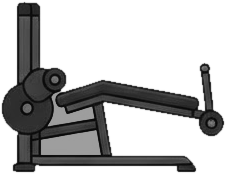
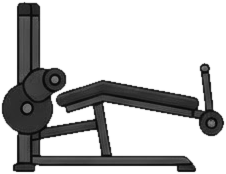
Beta: Kabel-, Band- und Maschinen-Übungen als Faultier-Puppe
36 weitere Übungen: Face Pull, Rudern/Curl/Crunch/Holzhacker/Pallof/
Kickback am Kabel, Überzug, Crossover, Band-Übungen, Latzug, Beinpresse,
Beinstrecker, Beinbeuger, Butterfly, Reverse Butterfly, Abduktoren,
Wadenheben (sitzend, Maschine), Rückenstrecker, Pullover-Maschine,
Ab Wheel, Seilspringen, Koordinationsleiter. Seile laufen von einer
Rolle des Kabelturms zur Hand oder zwischen den Händen; die Stange am
Latzug ist aus dem Bild genommen und läuft mit. Geräte ohne gefüllte
Rahmenlücken. Beta-Cache v38.

Claude-Session: https://claude.ai/code/session_017ZxJ7zC71p5pzMfEXr2XL4

Changed region(s): [[0.1549, 0.7184, 0.4646, 0.9195], [0.1858, 0.5172, 0.4336, 0.7471]]

diff --git a/beta/sloth-rig.js b/beta/sloth-rig.js
@@ -9,7 +9,7 @@
 const SLOTH_RIG_BASE = '../assets/sloth/rig/';
 
 /* PARTS:BEGIN */
-const SLOTH_PARTS = {"front_head":[510,53,696,293],"front_torso":[456,248,745,582],"front_uarm_l":[296,251,478,388],"front_uarm_r":[723,251,904,388],"front_farm_l":[51,288,294,400],"front_farm_r":[907,288,1150,400],"front_thigh_l":[439,516,582,697],"front_thigh_r":[629,516,773,697],"front_tail":[566,584,643,725],"front_calf_l":[444,678,569,866],"front_calf_r":[643,679,768,866],"back_head":[510,53,696,293],"back_torso":[455,247,745,622],"back_uarm_l":[300,251,478,388],"back_uarm_r":[723,251,900,388],"back_farm_l":[163,288,294,396],"back_farm_r":[906,288,1039,396],"back_elbow_l":[267,315,319,367],"back_elbow_r":[881,314,934,367],"back_grip_l":[195,606,314,813],"back_grip_r":[899,606,1018,813],"back_thigh_l":[439,567,571,697],"back_thigh_r":[641,562,773,697],"back_tail":[566,619,643,741],"back_calf_l":[444,678,569,866],"back_calf_r":[643,678,768,866],"eq_plate":[570,40,688,159],"eq_kettlebell":[870,40,962,159],"eq_dumbbell":[184,51,365,151],"eq_dhandle":[178,193,273,328],"eq_rope":[515,183,622,331],"eq_ring":[866,182,955,336],"eq_barend":[66,379,285,434],"eq_bench":[326,418,558,499],"eq_incline":[604,353,821,499],"eq_decline":[887,404,1118,499],"eq_cable":[92,506,252,840],"eq_dipstation":[436,631,630,840],"eq_rack":[890,553,1108,840],"eq_latpull":[68,33,237,248],"eq_legpress":[312,68,575,239],"eq_legext":[657,67,851,241],"eq_legcurl":[917,67,1143,241],"eq_butterfly":[69,324,232,543],"eq_abduction":[362,329,510,543],"eq_calfseated":[657,417,844,543],"eq_calfstanding":[931,326,1134,541],"eq_hyperext":[71,688,280,839],"eq_pullover":[465,604,649,840],"eq_tbar":[877,653,1112,840],"eq_abwheel":[181,58,443,250],"eq_jumprope":[776,42,989,261],"eq_ladder":[93,361,534,514],"eq_stepbox":[748,354,1035,538],"eq_band":[93,682,531,759],"eq_mat":[627,666,1152,759],"side_torso":[458,53,699,568],"side_tail":[372,453,473,535],"side_uarm":[791,80,910,268],"side_uarm_far":[791,80,910,268],"side_elbow":[811,261,857,307],"side_elbow_far":[811,261,857,307],"side_farm":[770,320,959,400],"side_farm_far":[770,320,959,400],"side_hand":[990,449,1166,539],"side_hand_far":[990,449,1166,539],"side_thigh":[629,516,773,687],"side_thigh_far":[629,516,773,687],"side_knee":[721,652,768,700],"side_knee_far":[721,652,768,700],"side_calf":[1020,689,1180,854],"side_calf_far":[1020,689,1180,854],"side_fist":[59,109,404,284],"side_fist_far":[59,109,404,284],"side_flat":[624,706,893,825],"side_flat_far":[624,706,893,825]};
+const SLOTH_PARTS = {"front_head":[510,53,696,293],"front_torso":[456,248,745,582],"front_uarm_l":[296,251,478,388],"front_uarm_r":[723,251,904,388],"front_farm_l":[51,288,294,400],"front_farm_r":[907,288,1150,400],"front_thigh_l":[439,516,582,697],"front_thigh_r":[629,516,773,697],"front_tail":[566,584,643,725],"front_calf_l":[444,678,569,866],"front_calf_r":[643,679,768,866],"back_head":[510,53,696,293],"back_torso":[455,247,745,622],"back_uarm_l":[300,251,478,388],"back_uarm_r":[723,251,900,388],"back_farm_l":[163,288,294,396],"back_farm_r":[906,288,1039,396],"back_elbow_l":[267,315,319,367],"back_elbow_r":[881,314,934,367],"back_grip_l":[195,606,314,813],"back_grip_r":[899,606,1018,813],"back_thigh_l":[439,567,571,697],"back_thigh_r":[641,562,773,697],"back_tail":[566,619,643,741],"back_calf_l":[444,678,569,866],"back_calf_r":[643,678,768,866],"eq_plate":[570,40,688,159],"eq_kettlebell":[870,40,962,159],"eq_dumbbell":[184,51,365,151],"eq_dhandle":[178,193,273,328],"eq_rope":[515,183,622,331],"eq_ring":[866,182,955,336],"eq_barend":[66,379,285,434],"eq_bench":[326,418,558,499],"eq_incline":[604,353,821,499],"eq_decline":[887,404,1118,499],"eq_cable":[92,506,252,840],"eq_dipstation":[436,631,630,840],"eq_rack":[890,553,1108,840],"eq_latpull":[68,33,226,248],"eq_legpress":[312,68,575,239],"eq_legext":[657,67,851,241],"eq_legcurl":[917,67,1143,241],"eq_butterfly":[69,324,232,543],"eq_abduction":[362,329,510,543],"eq_calfseated":[657,417,844,543],"eq_calfstanding":[931,326,1134,541],"eq_hyperext":[71,688,280,839],"eq_pullover":[465,604,649,840],"eq_tbar":[877,653,1112,840],"eq_abwheel":[181,58,443,250],"eq_jumprope":[776,42,989,261],"eq_ladder":[93,361,534,514],"eq_stepbox":[748,354,1035,538],"eq_band":[93,682,531,759],"eq_mat":[627,666,1152,759],"side_torso":[458,53,699,568],"side_tail":[372,453,473,535],"side_uarm":[791,80,910,268],"side_uarm_far":[791,80,910,268],"side_elbow":[811,261,857,307],"side_elbow_far":[811,261,857,307],"side_farm":[770,320,959,400],"side_farm_far":[770,320,959,400],"side_hand":[990,449,1166,539],"side_hand_far":[990,449,1166,539],"side_thigh":[629,516,773,687],"side_thigh_far":[629,516,773,687],"side_knee":[721,652,768,700],"side_knee_far":[721,652,768,700],"side_calf":[1020,689,1180,854],"side_calf_far":[1020,689,1180,854],"side_fist":[59,109,404,284],"side_fist_far":[59,109,404,284],"side_flat":[624,706,893,825],"side_flat_far":[624,706,893,825]};
 /* PARTS:END */
 
 // Gelenkpunkte in Vorlagen-Koordinaten (1200 x 896): [nah, fern]
@@ -67,6 +67,11 @@ const SLOTH_ORDER = {
   back: ['calf_l', 'calf_r', 'thigh_l', 'thigh_r', 'farm_l', 'farm_r', 'uarm_l', 'uarm_r', 'elbow_l', 'elbow_r', 'torso', 'tail', 'head', 'grip_l', 'grip_r'],
   side: ['farm_far', 'hand_far', 'uarm_far', 'elbow_far', 'calf_far', 'thigh_far', 'knee_far', 'tail', 'torso', 'calf', 'thigh', 'knee', 'farm', 'hand', 'uarm', 'elbow'],
 };
+
+// Kabelturm vor dem Faultier (gespiegelt, Rollen zeigen nach links) und Seil von einer Rolle zur Hand
+const CABLE_PULLEY = { top: [213, 538], mid: [222, 643], low: [213, 810] };
+const cableTower = (x) => ({ img: 'cable', at: [x, 46], a: [171, 838], k: 2.7, flip: true, layer: 'back' });
+const cableLine = (pulley, to = 'grip', prop = 0) => ({ line: { prop, pt: CABLE_PULLEY[pulley] }, to });
 
 const HANG_ARMS = { uarm_l: -110, farm_l: -98, grip_l: -94, uarm_r: -70, farm_r: -82, grip_r: -86 };
 const STAND_LEGS = { thigh_l: 100, calf_l: 91, thigh_r: 80, calf_r: 89 };
@@ -432,11 +437,11 @@ const SLOTH_POSES = {
   },
   tricepsext: {
     view: 'side', pin: 'ankle', dur: 2.4, floor: 46, grip: 'fist', label: 'Trizepsdrücken am Kabel',
-    props: [{ img: 'cable', at: [400, 46], a: [171, 838], k: 2.7, flip: true, layer: 'back' },
-      { line: [287, -764], to: 'grip' }, { img: 'rope', at: 'grip', a: [568, 196], k: 1.2 }],
+    props: [cableTower(400), cableLine('top'), { img: 'rope', at: 'grip', a: [568, 196], k: 1.2 }],
     a: { torso: -92, uarm: 100, farm: -30, hand: -30, thigh: 84, calf: 92 },
     b: { torso: -92, uarm: 100, farm: 84, hand: 84, thigh: 84, calf: 92 },
   },
+
 
   dbflyes: {
     view: 'side', pin: 'hip', dur: 3, floor: 286, grip: 'fist', label: 'Kurzhantel-Fliegende',
@@ -461,6 +466,159 @@ const SLOTH_POSES = {
     props: [{ img: 'plate', at: 'hand_l', k: 0.72 }],
     a: { torso: -80, head: -80, uarm_l: 100, farm_l: 94, uarm_r: 60, farm_r: 150, ...STAND_LEGS, tail: 0 },
     b: { torso: -100, head: -100, uarm_l: 100, farm_l: 94, uarm_r: 60, farm_r: 150, ...STAND_LEGS, tail: 0 },
+  },
+  // ---- Kabelzug ----
+  facepull: {
+    view: 'side', pin: 'ankle', dur: 2.4, floor: 46, grip: 'fist', label: 'Face Pull',
+    props: [cableTower(420), cableLine('top'), { img: 'rope', at: 'grip', a: [568, 196], k: 1.2 }],
+    a: { torso: -92, uarm: -22, farm: -24, thigh: 84, calf: 92 },
+    b: { torso: -94, uarm: 196, farm: -40, thigh: 84, calf: 92 },
+  },
+  cablerow: {
+    view: 'side', pin: 'hip', dur: 2.6, floor: 60, grip: 'fist', label: 'Rudern am Kabel',
+    props: [cableTower(560), cableLine('low'), { img: 'dhandle', at: 'grip', a: [226, 205], k: 1.1 }],
+    a: { torso: -60, uarm: 4, farm: 2, thigh: -4, calf: 10 },
+    b: { torso: -94, uarm: 128, farm: 6, thigh: -4, calf: 10 },
+  },
+  straightarm: {
+    view: 'side', pin: 'ankle', dur: 2.6, floor: 46, grip: 'fist', label: 'Überzug am Kabel',
+    props: [cableTower(460), cableLine('top'), { img: 'dhandle', at: 'grip', a: [226, 205], k: 1.1 }],
+    a: { torso: -70, uarm: -40, farm: -40, thigh: 80, calf: 96 },
+    b: { torso: -70, uarm: 96, farm: 94, thigh: 80, calf: 96 },
+  },
+  cablecurl: {
+    view: 'side', pin: 'ankle', dur: 2.4, floor: 46, grip: 'fist', label: 'Curl am Kabel',
+    props: [cableTower(420), cableLine('low'), { img: 'dhandle', at: 'grip', a: [226, 205], k: 1.1 }],
+    a: { torso: -96, uarm: 96, farm: 88, thigh: 86, calf: 92 },
+    b: { torso: -96, uarm: 100, farm: -52, thigh: 86, calf: 92 },
+  },
+  cablecrunch: {
+    view: 'side', pin: 'knee', dur: 2.6, floor: 30, grip: 'fist', relArms: true, label: 'Crunch am Kabel',
+    props: [cableTower(470), cableLine('top'), { img: 'rope', at: 'grip', a: [568, 196], k: 1.2 }],
+    a: { torso: -86, uarm: 170, farm: -10, thigh: 90, calf: 180, fthigh: 90, fcalf: 180 },
+    b: { torso: -10, uarm: 170, farm: -10, thigh: 110, calf: 180, fthigh: 110, fcalf: 180 },
+  },
+  woodchop: {
+    view: 'side', pin: 'ankle', dur: 2.4, floor: 46, grip: 'fist', label: 'Holzhacker am Kabel',
+    props: [cableTower(460), cableLine('top'), { img: 'dhandle', at: 'grip', a: [226, 205], k: 1.1 }],
+    a: { torso: -96, uarm: -36, farm: -30, thigh: 84, calf: 92 },
+    b: { torso: -80, uarm: 80, farm: 70, thigh: 70, calf: 100 },
+  },
+  pallof: {
+    view: 'side', pin: 'ankle', dur: 3, floor: 46, grip: 'fist', label: 'Pallof Press',
+    props: [cableTower(470), cableLine('mid'), { img: 'dhandle', at: 'grip', a: [226, 205], k: 1.1 }],
+    a: { torso: -94, uarm: 100, farm: -12, thigh: 80, calf: 96 },
+    b: { torso: -94, uarm: -4, farm: -4, thigh: 80, calf: 96 },
+  },
+  kickback: {
+    view: 'side', pin: 'fankle', dur: 2.4, floor: 46, grip: 'fist', label: 'Kickback am Kabel',
+    props: [cableTower(330), cableLine('low', 'ankle')],
+    a: { torso: -70, uarm: -8, farm: -8, fuarm: -8, ffarm: -8, thigh: 96, calf: 96, fthigh: 88, fcalf: 94 },
+    b: { torso: -70, uarm: -8, farm: -8, fuarm: -8, ffarm: -8, thigh: 150, calf: 158, fthigh: 88, fcalf: 94 },
+  },
+  crossover: {
+    view: 'front', pin: 'feet', dur: 2.6, floor: 26, armLift: 45, label: 'Kabel-Crossover',
+    props: [{ line: [-560, -900], to: 'hand_l' }, { line: [560, -900], to: 'hand_r' }],
+    a: { torso: -90, head: -90, uarm_l: -160, farm_l: -150, uarm_r: -20, farm_r: -30, ...STAND_LEGS, tail: 0 },
+    b: { torso: -90, head: -90, uarm_l: 120, farm_l: 40, uarm_r: 60, farm_r: 140, ...STAND_LEGS, tail: 0 },
+  },
+  bandpull: {
+    view: 'front', pin: 'feet', dur: 2.4, floor: 26, armLift: 45, label: 'Band auseinanderziehen',
+    props: [{ line: 'hand_l', to: 'hand_r' }],
+    a: { torso: -90, head: -90, uarm_l: 150, farm_l: 30, uarm_r: 30, farm_r: 150, ...STAND_LEGS, tail: 0 },
+    b: { torso: -90, head: -90, uarm_l: 180, farm_l: 180, uarm_r: 0, farm_r: 0, ...STAND_LEGS, tail: 0 },
+  },
+  bandcircle: {
+    view: 'front', pin: 'feet', dur: 3, floor: 26, armLift: 45, label: 'Schulterkreisen mit Band',
+    props: [{ line: 'hand_l', to: 'hand_r' }],
+    a: { torso: -90, head: -90, uarm_l: 130, farm_l: 120, uarm_r: 50, farm_r: 60, ...STAND_LEGS, tail: 0 },
+    b: { torso: -90, head: -90, uarm_l: -120, farm_l: -110, uarm_r: -60, farm_r: -70, ...STAND_LEGS, tail: 0 },
+  },
+  // ---- Maschinen ----
+  latpull: {
+    view: 'side', pin: 'hip', dur: 2.6, floor: 250, grip: 'fist', label: 'Latzug',
+    props: [{ img: 'latpull', at: [-10, 50], a: [195, 200], k: 3.8, flip: true, layer: 'back' },
+      { line: { prop: 0, pt: [188, 40] }, to: 'grip' }],
+    a: { torso: -94, uarm: -80, farm: -84, thigh: -4, calf: 92 },
+    b: { torso: -100, uarm: 112, farm: -70, thigh: -4, calf: 92 },
+  },
+  legpress: {
+    view: 'side', pin: 'hip', dur: 2.8, floor: 180, label: 'Beinpresse',
+    props: [{ img: 'legpress', at: [0, 40], a: [430, 175], k: 2.6, flip: true, layer: 'back' }],
+    a: { torso: -150, uarm: 60, farm: 20, thigh: -70, calf: 30 },
+    b: { torso: -150, uarm: 60, farm: 20, thigh: -38, calf: -40 },
+  },
+  legext: {
+    view: 'side', pin: 'hip', dur: 2.6, floor: 230, label: 'Beinstrecker',
+    props: [{ img: 'legext', at: [-10, 50], a: [745, 152], k: 3, layer: 'back' }],
+    a: { torso: -100, uarm: 80, farm: 20, thigh: -4, calf: 92 },
+    b: { torso: -100, uarm: 80, farm: 20, thigh: -6, calf: 0 },
+  },
+  legcurl: {
+    view: 'side', pin: 'hip', dur: 2.6, floor: 170, label: 'Beinbeuger liegend',
+    props: [{ img: 'legcurl', at: [40, 50], a: [1040, 168], k: 2.8, flip: true, layer: 'back' }],
+    a: { torso: -4, uarm: 70, farm: 0, thigh: 180, calf: 182 },
+    b: { torso: -4, uarm: 70, farm: 0, thigh: 184, calf: -76 },
+  },
+  pecdeck: {
+    view: 'front', pin: 'feet', dur: 2.6, floor: 26, armLift: 45, label: 'Butterfly',
+    props: [{ img: 'butterfly', at: [0, 26], a: [125, 555], k: 3.6, layer: 'back' }],
+    a: { torso: -90, head: -90, uarm_l: 182, farm_l: -90, uarm_r: -2, farm_r: -90, ...STAND_LEGS, tail: 0 },
+    b: { torso: -90, head: -90, uarm_l: 140, farm_l: -40, uarm_r: 40, farm_r: -140, ...STAND_LEGS, tail: 0 },
+  },
+  reversefly: {
+    view: 'front', pin: 'feet', dur: 2.6, floor: 26, armLift: 45, label: 'Reverse Butterfly',
+    props: [{ img: 'butterfly', at: [0, 26], a: [125, 555], k: 3.6, layer: 'back' }],
+    a: { torso: -90, head: -90, uarm_l: 130, farm_l: 130, uarm_r: 50, farm_r: 50, ...STAND_LEGS, tail: 0 },
+    b: { torso: -90, head: -90, uarm_l: 180, farm_l: 180, uarm_r: 0, farm_r: 0, ...STAND_LEGS, tail: 0 },
+  },
+  abduction: {
+    view: 'front', pin: 'feet', dur: 2.6, floor: 26, armLift: 45, label: 'Abduktoren-Maschine',
+    props: [{ img: 'abduction', at: [0, 26], a: [440, 555], k: 3.6, layer: 'back' }],
+    a: { torso: -90, head: -90, uarm_l: 108, farm_l: 96, uarm_r: 72, farm_r: 84, thigh_l: 98, calf_l: 91, thigh_r: 82, calf_r: 89, tail: 0 },
+    b: { torso: -90, head: -90, uarm_l: 108, farm_l: 96, uarm_r: 72, farm_r: 84, thigh_l: 124, calf_l: 110, thigh_r: 56, calf_r: 70, tail: 0 },
+  },
+  calfseated: {
+    view: 'side', pin: 'hip', dur: 2, floor: 220, label: 'Wadenheben sitzend',
+    props: [{ img: 'calfseated', at: [0, 50], a: [690, 447], k: 3, layer: 'back' }],
+    a: { torso: -96, uarm: 70, farm: 10, thigh: 0, calf: 92 },
+    b: { torso: -96, uarm: 70, farm: 10, thigh: -10, calf: 96 },
+  },
+  calfmachine: {
+    view: 'side', pin: 'ankle', dur: 2, floor: 46, label: 'Wadenheben an der Maschine',
+    props: [{ img: 'calfstanding', at: [40, 46], a: [1000, 553], k: 3.9, layer: 'back' }],
+    a: { torso: -96, uarm: 70, farm: -84, thigh: 84, calf: 92, dy: 0 },
+    b: { torso: -96, uarm: 70, farm: -84, thigh: 84, calf: 92, dy: -26 },
+  },
+  backext: {
+    view: 'side', pin: 'hip', dur: 2.8, floor: 332, relArms: true, label: 'Rückenstrecker',
+    props: [{ img: 'hyperext', at: [20, 40], a: [215, 668], k: 1.8, layer: 'back' }],
+    a: { torso: 34, uarm: 150, farm: -20, thigh: 128, calf: 128 },
+    b: { torso: -34, uarm: 150, farm: -20, thigh: 128, calf: 128 },
+  },
+  pullovermachine: {
+    view: 'side', pin: 'hip', dur: 2.8, floor: 230, grip: 'fist', label: 'Pullover-Maschine',
+    props: [{ img: 'pullover', at: [-20, 50], a: [615, 785], k: 2.8, layer: 'back' }],
+    a: { torso: -104, uarm: -110, farm: -110, thigh: -4, calf: 92 },
+    b: { torso: -104, uarm: 70, farm: 70, thigh: -4, calf: 92 },
+  },
+  abwheel: {
+    view: 'side', pin: 'knee', dur: 3, floor: 30, grip: 'fist', label: 'Ab Wheel Rollout',
+    props: [{ img: 'plate', at: 'grip', k: 0.8 }],
+    a: { torso: -60, uarm: 80, farm: 82, thigh: 110, calf: 180 },
+    b: { torso: -26, uarm: -8, farm: -8, thigh: 150, calf: 180 },
+  },
+  jumprope: {
+    view: 'side', pin: 'ankle', dur: 0.6, floor: 46, grip: 'fist', label: 'Seilspringen',
+    props: [{ img: 'jumprope', at: 'grip', a: [882, 150], k: 2.6, layer: 'mid' }],
+    a: { torso: -94, uarm: 100, farm: 20, thigh: 86, calf: 92, dy: 0 },
+    b: { torso: -94, uarm: 100, farm: 30, thigh: 80, calf: 96, dy: -40 },
+  },
+  ladder: {
+    view: 'side', pin: 'hip', dur: 0.6, floor: 205, label: 'Koordinationsleiter',
+    props: [{ img: 'ladder', at: [0, 205], a: [314, 438], k: [1.6, 0.25], layer: 'back' }],
+    a: { torso: -80, uarm: 40, farm: -40, fuarm: 150, ffarm: 90, thigh: 30, calf: 100, fthigh: 110, fcalf: 150 },
+    b: { torso: -80, uarm: 150, farm: 90, fuarm: 40, ffarm: -40, thigh: 110, calf: 150, fthigh: 30, fcalf: 100 },
   },
   hang: {
     view: 'back', pin: 'hands', dur: 3.6, bar: true, label: 'Faultier hängt an der Stange',
@@ -589,8 +747,11 @@ function slothRigBuild(pose) {
     // Requisiten: an einem Punkt der Figur (z. B. 'grip') oder fest im Bild ([x, y] relativ zum festen Punkt)
     (pose.props || []).forEach((pr, i) => {
       const pt = (at) => (Array.isArray(at) ? at : sub(pts[at], pin));
-      if (pr.line) { // Seil vom festen Punkt line zum Punkt to (Rechteck, in der Länge gestreckt)
-        const A0 = pr.line, B = pt(pr.to), d = sub(B, A0);
+      if (pr.line) { // Seil von line zum Punkt to (Rechteck, in der Länge gestreckt)
+        // line: [x, y] fest, Punktname der Figur, oder { prop: i, pt: [x, y] } = Punkt auf einem Gerät (Blatt-Koordinaten)
+        const onProp = (o) => { const e = q['prop' + o.prop], [kx, ky] = Array.isArray(e.k) ? e.k : [e.k, e.k];
+          return add(e.P, rot([(o.pt[0] - e.p[0]) * kx, (o.pt[1] - e.p[1]) * ky], e.r)); };
+        const A0 = pr.line.prop != null ? onProp(pr.line) : pt(pr.line), B = pt(pr.to), d = sub(B, A0);
         q['prop' + i] = { line: true, P: A0, r: Math.atan2(d[1], d[0]) * 180 / Math.PI, p: [0, 0], k: [Math.hypot(d[0], d[1]), 1] };
         return;
       }

diff --git a/beta/app.js b/beta/app.js
@@ -7678,6 +7678,16 @@ const SLOTH_EXERCISE_POSES = {
   lunge_dumbbell: 'lunge', step_up: 'stepup', box_step_stepper: 'stepup', hip_thrust: 'hipthrust', ohp: 'ohp',
   bicep_curl_dumbbell: 'curl', hammer_curl: 'curl', bicep_curl_barbell: 'bbcurl', triceps_extension: 'tricepsext',
   front_raise: 'frontraise', lateral_raise: 'lateralraise', side_bend_dumbbell: 'sidebend',
+  face_pull: 'facepull', row_cable: 'cablerow', straight_arm_pulldown: 'straightarm', cable_curl: 'cablecurl',
+  cable_curl_low_pulley: 'cablecurl', cable_crunch: 'cablecrunch', cable_woodchop: 'woodchop', pallof: 'pallof',
+  cable_glute_kickback: 'kickback', cable_crossover: 'crossover', lateral_raise_cable: 'lateralraise',
+  side_bend_cable: 'sidebend', band_pull_apart: 'bandpull', shoulder_circles_band: 'bandcircle',
+  glute_bridge_side_step: 'bridge', lat_pulldown: 'latpull', lat_pulldown_wide: 'latpull', lat_pulldown_single: 'latpull',
+  leg_press: 'legpress', leg_extension: 'legext', leg_curl_lying: 'legcurl', butterfly: 'pecdeck',
+  reverse_butterfly: 'reversefly', hip_abduction_machine: 'abduction', hip_adduction_machine: 'abduction',
+  hip_abduction_cable: 'abduction', calf_raise_seated: 'calfseated', calf_raise_machine: 'calfmachine',
+  back_extension: 'backext', pullover_machine: 'pullovermachine', t_bar_row: 'barbellrow', ab_wheel_rollout: 'abwheel',
+  jump_rope: 'jumprope', agility_ladder_run: 'ladder', zercher_squat_rotation: 'goblet', carioca: 'shuffle',
 };
 const SLOTH_VIEW_WORD = { side: 'Seitenansicht', back: 'Rückansicht', front: 'Vorderansicht' };
 function exerciseFigureSvg(exerciseId) {

diff --git a/beta/sw.js b/beta/sw.js
@@ -1,4 +1,4 @@
-const CACHE_NAME = 'pincho-beta-v37';
+const CACHE_NAME = 'pincho-beta-v38';
 const SHELL_ASSETS = [
   './', './index.html', './styles.css', './data.js', './firebase.js', './sloth-rig.js', './app.js',
   './manifest.json', '../assets/icon-512-any.png', '../assets/icon-192-any.png', '../assets/icon-512-transparent.png', '../assets/icon-512-maskable.png', '../assets/icon-beta-192-any.png', '../assets/icon-beta-512-maskable.png',

diff --git a/tools/sloth-rig/build.py b/tools/sloth-rig/build.py
@@ -47,8 +47,8 @@ EQUIP = {
     'kleinteile.jpg': {'abwheel': [2], 'jumprope': [1], 'ladder': [29], 'stepbox': [28], 'band': [63], 'mat': [62]},
 }
 
-# Bereiche, die aus einem Gerät entfernt werden (x0, y0, x1, y1 im Blatt): Griff am Kabelturm
-EQUIP_ERASE = {'cable': [(214, 652, 256, 714)]}
+# Bereiche, die aus einem Gerät entfernt werden (x0, y0, x1, y1 im Blatt): Griff am Kabelturm, Stange am Latzug
+EQUIP_ERASE = {'cable': [(214, 652, 256, 714)], 'latpull': [(115, 52, 242, 90)]}
 
 # Geräte etwas dunkler, damit sie neben dem Faultier zurücktreten
 EQUIP_DARK = 0.62
@@ -69,8 +69,11 @@ def gray(rgb):
     return np.interp(lum, np.linspace(0, 1, len(CURVE)), CURVE) * 255
 
 
-def cut(rgb, lab, ids, g, out, fix=None, dark=1.0, erase=()):
-    m = ndi.binary_fill_holes(np.isin(lab, ids))
+def cut(rgb, lab, ids, g, out, fix=None, dark=1.0, erase=(), holes=True):
+    # holes: eingeschlossene weisse Flächen mitnehmen (Augen, Zähne); bei Geräten nicht (Lücken im Rahmen)
+    m = np.isin(lab, ids)
+    if holes:
+        m = ndi.binary_fill_holes(m)
     for x0, y0, x1, y1 in erase:
         m[y0:y1, x0:x1] = False
     g = g.astype(float)
@@ -103,7 +106,7 @@ def main():
         rgb, lab = label(os.path.join(HERE, 'sheets', 'equipment', fname))
         g = gray(rgb)
         for name, ids in comps.items():
-            parts[f'eq_{name}'] = cut(rgb, lab, ids, g, os.path.join(OUT, f'eq_{name}.png'), dark=EQUIP_DARK, erase=EQUIP_ERASE.get(name, ()))
+            parts[f'eq_{name}'] = cut(rgb, lab, ids, g, os.path.join(OUT, f'eq_{name}.png'), dark=EQUIP_DARK, erase=EQUIP_ERASE.get(name, ()), holes=False)
     for fname, comps in SIDE:
         rgb, lab = label(os.path.join(HERE, 'sheets', fname))
         g = gray(rgb)
